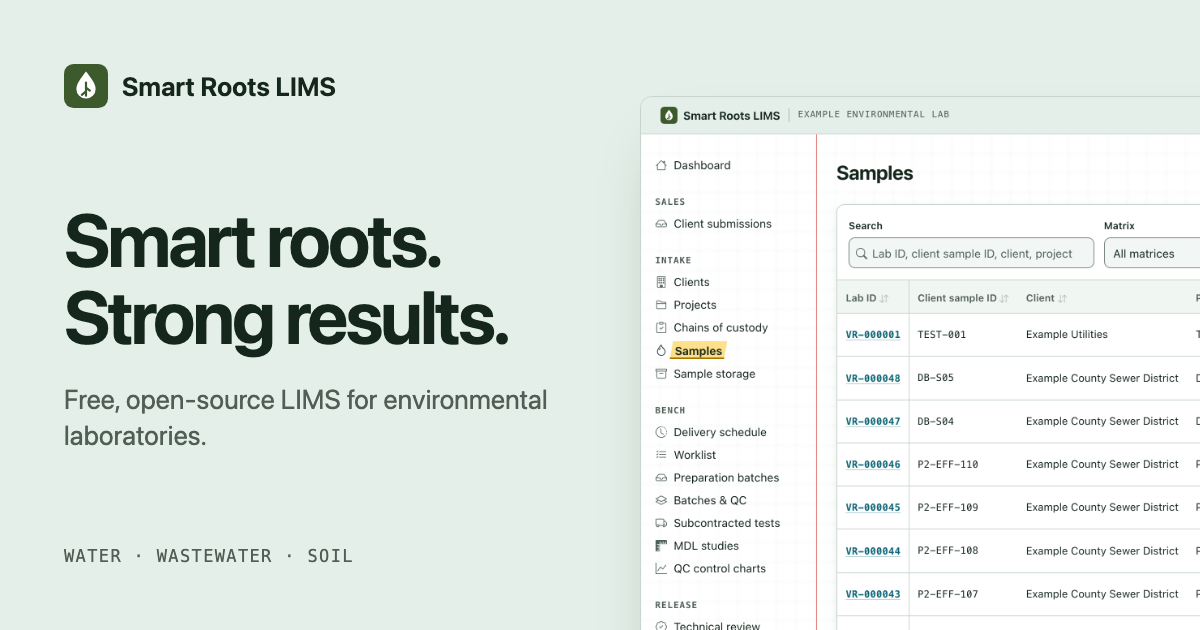
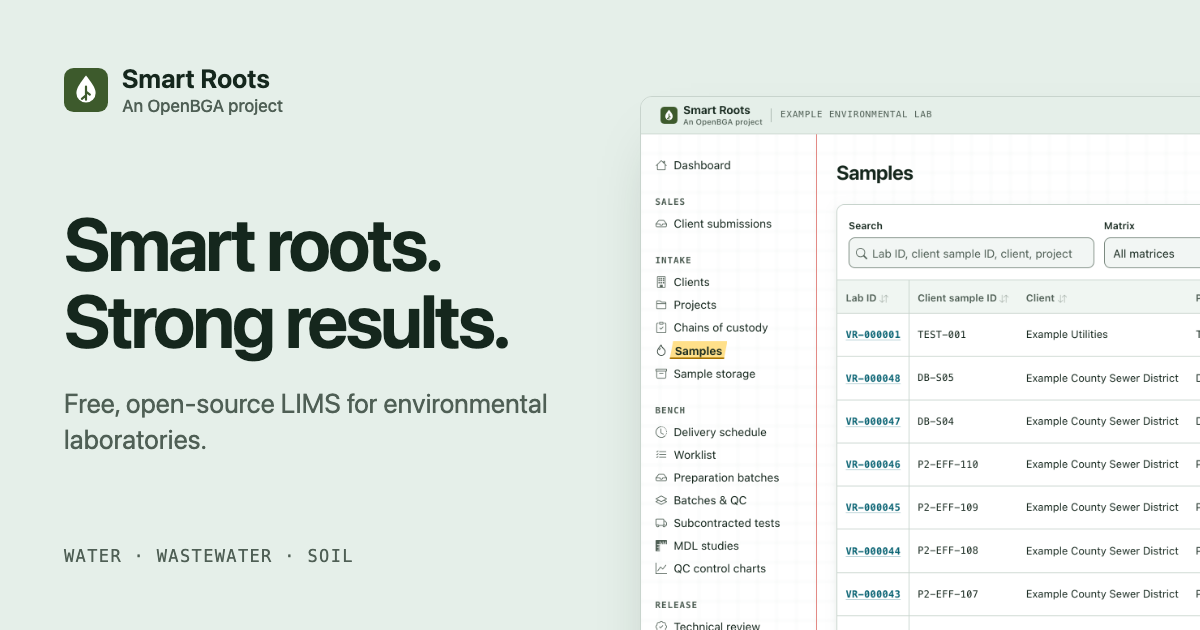
Brand lock-up: Smart Roots, an OpenBGA project
The mark with "Smart Roots" over "An OpenBGA project" in the staff top
bar, sign-in and error pages, presentation header and link preview. The
written product name stays "Smart Roots LIMS"; OpenBGA never prefixes it.
The client portal keeps the lab's name; phones show the name alone.

The staff top bar no longer wraps or overlaps between 576 and 991px: the
brand keeps its size, the sample lookup gives way, and the lab name shows
from 992px. Screens and the link preview are regenerated; shared help and
the owner decision in AGENTS.md are updated.

diff --git a/static/css/app.css b/static/css/app.css
@@ -921,9 +921,37 @@ s,
   height: 1.5rem;
 }
 
+/* Product lock-up (includes/brand.html): the name over a quieter "An OpenBGA project" line. */
+.vr-wordmark {
+  display: grid;
+  gap: 0.0625rem;
+  line-height: 1.15;
+}
+
+.vr-wordmark-parent {
+  color: var(--vr-topbar-text-muted);
+  font-size: 0.6875rem;
+  font-weight: 500;
+  letter-spacing: 0;
+}
+
+/* Phones: the bar keeps its controls whole, so it shows the name alone rather than a cut-off line. */
+@media (max-width: 575.98px) {
+  .vr-topbar .vr-wordmark-parent {
+    display: none;
+  }
+}
+
+/* Wider screens: the brand keeps its size; the lab name, then the sample lookup give way first. */
+@media (min-width: 576px) {
+  .vr-topbar > .vr-brand {
+    flex-shrink: 0;
+  }
+}
+
 .vr-lab-name {
   min-width: 0;
-  flex: 0 1 auto;
+  flex: 0 100 auto;
   color: var(--vr-topbar-text-muted);
   font-weight: 500;
   padding-left: 0.75rem;
@@ -934,9 +962,10 @@ s,
 }
 
 .vr-topbar-end {
+  flex: 1 1 auto;
+  min-width: 0;
   margin-left: auto;
   display: flex;
-  flex-wrap: wrap;
   justify-content: flex-end;
   align-items: center;
   gap: 0.375rem;
@@ -970,7 +999,8 @@ s,
 
 .vr-lookup {
   position: relative;
-  width: min(18rem, 34vw);
+  flex: 0 1 18rem;
+  min-width: 7.5rem;
 }
 
 .vr-lookup .vr-icon {
@@ -2544,6 +2574,11 @@ fieldset.vr-field > legend {
 .vr-entrance-brand img {
   width: 2rem;
   height: 2rem;
+}
+
+.vr-entrance-brand .vr-wordmark-parent {
+  color: var(--vr-text-muted);
+  font-size: 0.75rem;
 }
 
 .vr-entrance-panel {

diff --git a/templates/includes/brand.html b/templates/includes/brand.html
@@ -1,10 +1,11 @@
 {% load static %}{% comment %}
-Brand mark and name. Parameters:
+Brand lock-up: the mark, "Smart Roots" and "An OpenBGA project" beneath it. The written product
+name stays "Smart Roots LIMS" (titles, footer, help); OpenBGA appears only in this line. Parameters:
   href     link target; without it the brand is plain text (the 500 page, which has no request)
-  name     text beside the mark; default "Smart Roots LIMS" (the portal passes the lab's name)
+  name     replaces the lock-up text with this single line (the portal passes the lab's name)
   variant  "entrance" for the larger lock-up above entrance and error panels; default is the top bar
 Usage: {% include "includes/brand.html" with href=dashboard_url|default:"/" %}
 {% endcomment %}{% with size=variant|yesno:"32,24" css=variant|yesno:"vr-entrance-brand,vr-brand" %}{% if href %}<a class="{{ css }}" href="{{ href }}">{% else %}<p class="{{ css }}">{% endif %}
   <img src="{% static 'img/mark.svg' %}" alt="" width="{{ size }}" height="{{ size }}">
-  <span>{{ name|default:"Smart Roots LIMS" }}</span>
+  {% if name %}<span>{{ name }}</span>{% else %}<span class="vr-wordmark"><span class="vr-wordmark-name">Smart Roots</span> <span class="vr-wordmark-parent">An OpenBGA project</span></span>{% endif %}
 {% if href %}</a>{% else %}</p>{% endif %}{% endwith %}

diff --git a/templates/layouts/document.html b/templates/layouts/document.html
@@ -58,7 +58,7 @@ core/templatetags/navigation.py. Error pages (400/403/404) keep this shell for s
   <header class="vr-topbar">
     <button class="btn btn-sm vr-topbar-btn d-lg-none" type="button" data-bs-toggle="offcanvas" data-bs-target="#vr-nav" aria-controls="vr-nav">{% include "includes/icon.html" with name="list" %}<span>Menu</span></button>
     {% include "includes/brand.html" with href=dashboard_url|default:"/" %}
-    {% if lab.name %}<span class="vr-lab-name d-none d-md-inline">{{ lab.name }}</span>{% endif %}
+    {% if lab.name %}<span class="vr-lab-name d-none d-lg-inline">{{ lab.name }}</span>{% endif %}
     <div class="vr-topbar-end">
       {% url 'receipt:sample-list' as sample_list_url %}
       {% if sample_list_url %}

diff --git a/website/about/assets/site.css b/website/about/assets/site.css
@@ -45,6 +45,9 @@ section[id] { scroll-margin-top: 2rem; }
 .site-header { display: flex; justify-content: space-between; align-items: center; gap: 1.5rem; padding-block: 1.5rem; }
 .brand { display: inline-flex; align-items: center; gap: .75rem; color: var(--ink); font-size: 1.125rem; font-weight: 650; text-decoration: none; white-space: nowrap; }
 .brand img { flex: none; }
+.wordmark { display: grid; gap: .125rem; line-height: 1.15; }
+.wordmark-name { font-size: 1.25rem; letter-spacing: -.015em; }
+.wordmark-parent { color: var(--muted); font-size: .75rem; font-weight: 500; }
 nav { display: flex; flex-wrap: wrap; gap: .5rem 1.75rem; }
 nav a { padding-block: .5rem; font-size: .9375rem; color: var(--ink); }
 

diff --git a/website/about/index.html b/website/about/index.html
@@ -23,9 +23,9 @@
 <body>
   <a class="skip-link" href="#main">Skip to main content</a>
   <header class="site-header">
-    <a class="brand" href="./" aria-label="Smart Roots LIMS home">
-      <img src="assets/mark.svg" alt="" width="32" height="32">
-      <span>Smart Roots LIMS</span>
+    <a class="brand" href="./">
+      <img src="assets/mark.svg" alt="" width="40" height="40">
+      <span class="wordmark"><span class="wordmark-name">Smart Roots</span> <span class="wordmark-parent">An OpenBGA project</span></span>
     </a>
     <nav aria-label="Main navigation">
       <a href="#workflow">Workflow</a>

diff --git a/tests/test_ui_standards.py b/tests/test_ui_standards.py
@@ -246,4 +246,7 @@ def test_shared_includes_render_their_documented_parameters(rf, django_user_mode
     assert 'name="per_page" value="50"' in toolbar and "btn-primary" not in toolbar
 
     brand = render_to_string("includes/brand.html", {"href": "/", "name": ""})
-    assert 'class="vr-brand" href="/"' in brand and "Smart Roots LIMS" in brand
+    assert 'class="vr-brand" href="/"' in brand
+    assert ">Smart Roots</span>" in brand and ">An OpenBGA project</span>" in brand
+    portal_brand = render_to_string("includes/brand.html", {"href": "/", "name": "Example Lab"})
+    assert ">Example Lab</span>" in portal_brand and "OpenBGA" not in portal_brand

diff --git a/AGENTS.md b/AGENTS.md
@@ -17,7 +17,9 @@ published in the public repository `openbga/smart-roots-lims`. Everything commit
 The coordinator owns main/origin, Git index, commits and pushes. License (2026-11-11):
 AGPL-3.0-only with the copyright and trademark notice in `NOTICE`; the footer "Source code" link
 (`SOURCE_CODE_URL`) serves AGPL section 13. The canonical GNU LICENSE and dependency notices are
-included; retain them when distributing. Write the name exactly "Smart Roots LIMS". Keep material
+included; retain them when distributing. Write the name exactly "Smart Roots LIMS". Owner decision
+2026-11-12: the logo lock-up (app brand, presentation header, link preview) is the mark with
+"Smart Roots" over "An OpenBGA project"; OpenBGA never prefixes the product name. Keep material
 about other LIMS/LIS products or vendors out of the repository; regulatory and standards sources
 and formats an implemented feature supports are fine.
 Owner instruction 2026-11-11: the README "Project and support" section (BGASoft as sponsor,
